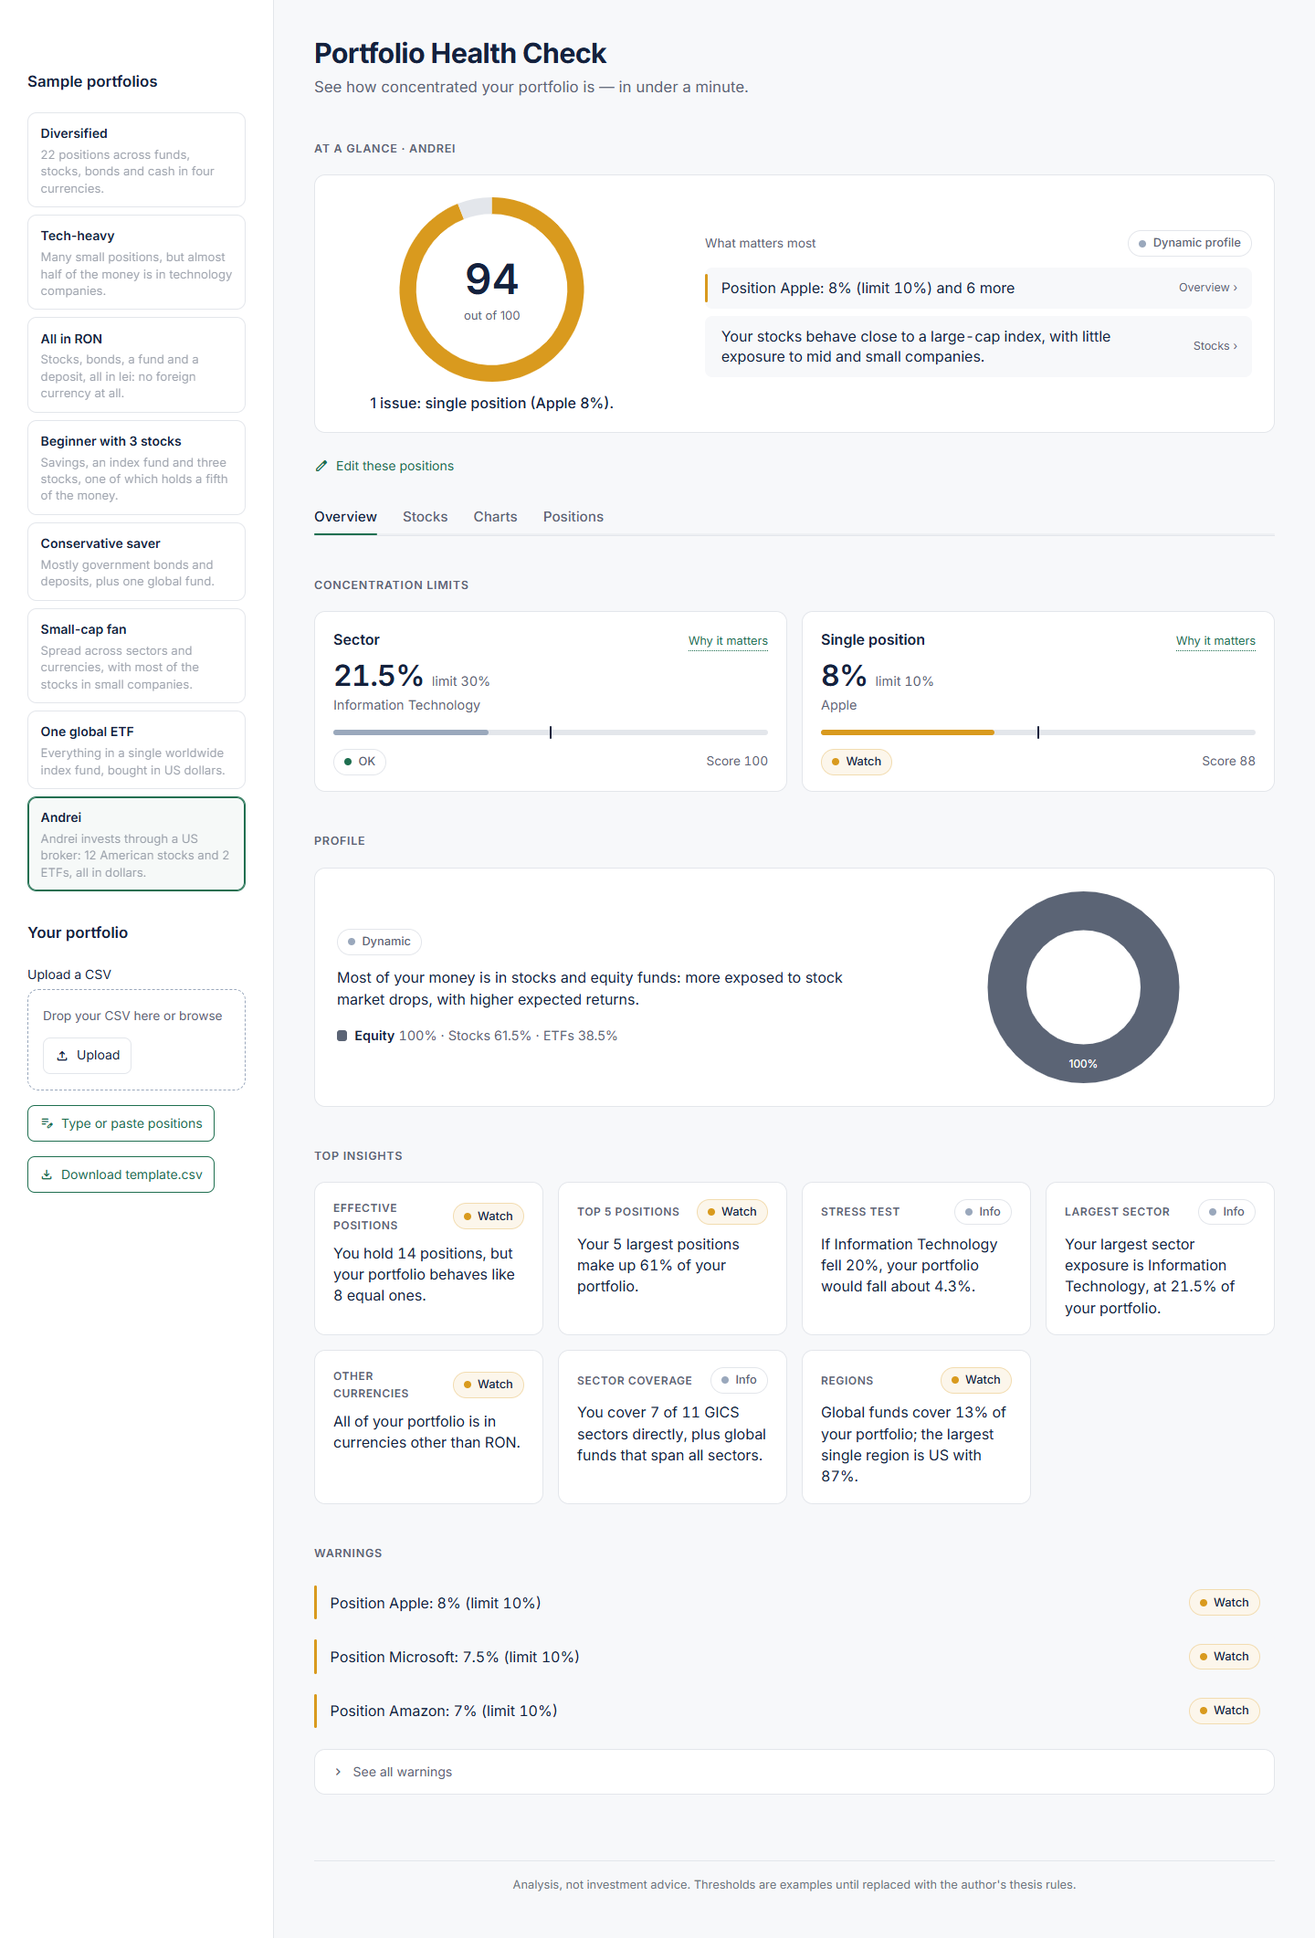
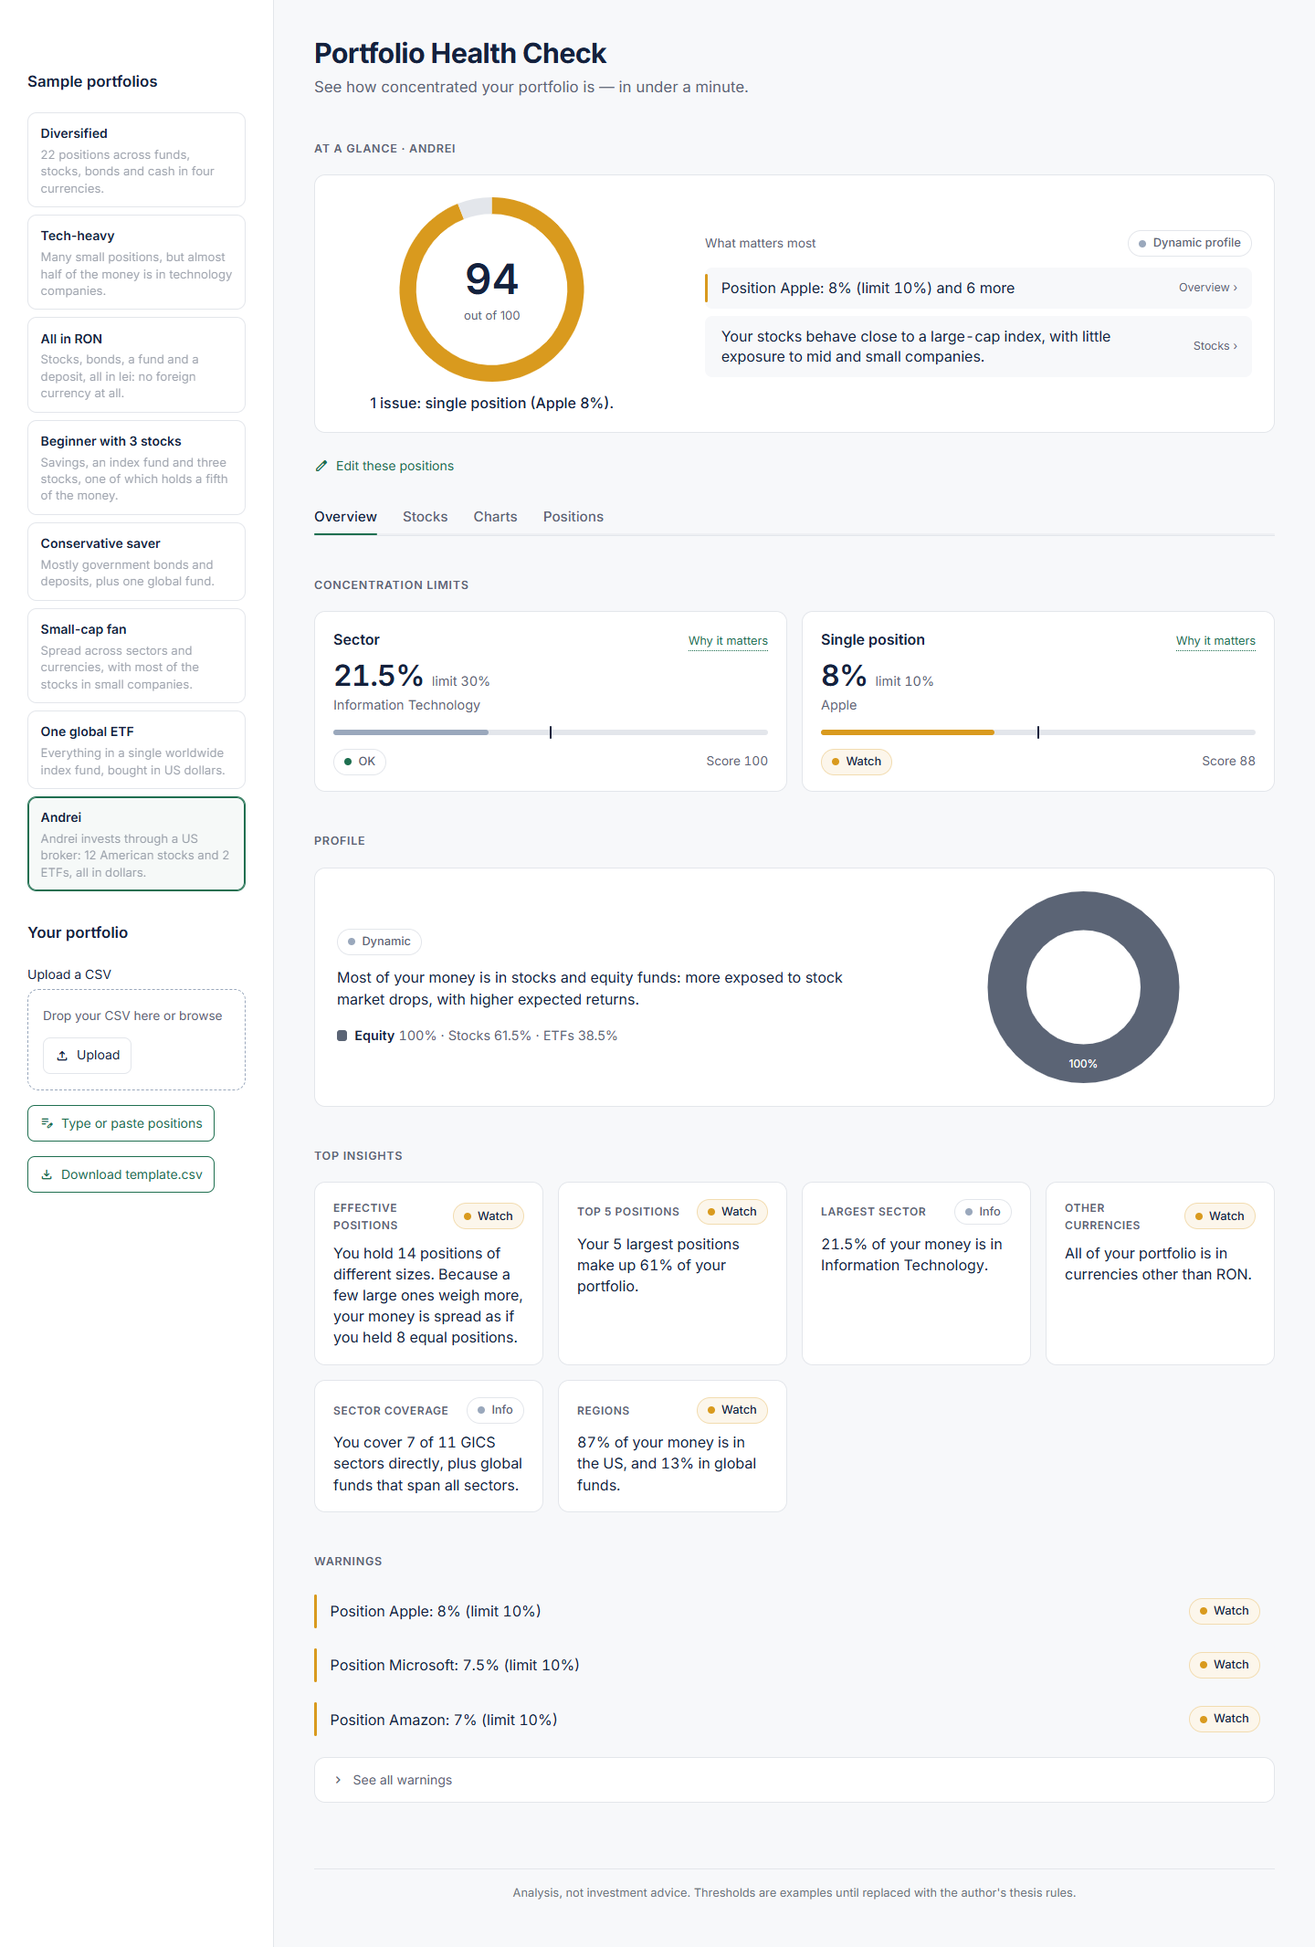
Plain exposure insights, label notes and bar drill-down (S1-18, S1-19, S1-21, S1-23)
- "Behaves like N equal positions" now says why, in plain words.
- The stress test is replaced by the largest sector and region in %.
- A note under the Sector chart and the table headers explain
  "Diversified" and "n/a".
- Hovering a bar lists the positions in it; clicking lists them all.

diff --git a/app.py b/app.py
@@ -190,6 +190,10 @@ def inject_css() -> None:
 .phc-detail { display: grid; grid-template-columns: repeat(auto-fit, minmax(130px, 1fr)); gap: .75rem; }
 .phc-detail dt { color: var(--text-2); font-size: .8rem; }
 .phc-detail dd { margin: .1rem 0 0; font-weight: 500; }
+.phc-members { display: flex; flex-direction: column; }
+.phc-member { display: flex; justify-content: space-between; gap: 1rem; padding: .4rem 0;
+  border-bottom: 1px solid var(--border); }
+.phc-member:last-child { border-bottom: none; }
 
 /* Streamlit widgets. Selectors use data-testid, ARIA roles and the st-key-* classes
    Streamlit adds to keyed widgets, not its generated class names. */
@@ -331,7 +335,9 @@ def show_table(table, formats: dict, **options):
     )
     config = {
         column: st.column_config.Column(
-            COLUMN_LABELS[column], alignment="right" if column in NUMBER_COLUMNS else None
+            COLUMN_LABELS[column],
+            alignment="right" if column in NUMBER_COLUMNS else None,
+            help=" ".join(scoring.LABEL_EXPLANATIONS.values()) if column == "sector" else None,
         )
         for column in table.columns
     }
@@ -439,7 +445,20 @@ def cap_chart(comparison) -> go.Figure:
     return fig
 
 
-def bar_chart(bars, limit: float | None) -> go.Figure:
+def members_hover(members: list[tuple[str, float]], shown: int = 8) -> str:
+    """The positions inside a bar, for its tooltip: the largest eight, then a count."""
+    lines = [f"{escape(name)}  {scoring.fmt_pct(weight)}" for name, weight in members[:shown]]
+    if len(members) > shown:
+        lines.append(f"and {len(members) - shown} more")
+    return "<br>".join(lines)
+
+
+def bar_chart(bars, limit: float | None, members: dict | None = None) -> go.Figure:
+    hover = "<b>%{y}</b>: %{text}<extra></extra>"
+    customdata = None
+    if members:
+        customdata = [members_hover(members.get(category, [])) for category in bars["category"]]
+        hover = "<b>%{y}</b>: %{text}<br><br>%{customdata}<extra></extra>"
     fig = go.Figure(
         go.Bar(
             x=bars["weight"],
@@ -449,7 +468,8 @@ def bar_chart(bars, limit: float | None) -> go.Figure:
             text=[scoring.fmt_pct(weight) for weight in bars["weight"]],
             textposition="outside",
             cliponaxis=False,
-            hovertemplate="%{y}: %{text}<extra></extra>",
+            customdata=customdata,
+            hovertemplate=hover,
         )
     )
     top = max(bars["weight"].max(), limit or 0)
@@ -810,7 +830,19 @@ def stocks_tab(analysis: scoring.Analysis, portfolio_id: str) -> None:
         )
 
 
-def charts_tab(analysis: scoring.Analysis) -> None:
+def members_card(category: str, share: float, members: list[tuple[str, float]]) -> str:
+    rows = "".join(
+        f'<div class="phc-member"><span>{escape(name)}</span>'
+        f'<span class="phc-num">{scoring.fmt_pct(weight)}</span></div>'
+        for name, weight in members
+    )
+    return (
+        f'<div class="phc-card"><div class="phc-detail-name">{escape(category)} · '
+        f'{scoring.fmt_pct(share)} of your portfolio</div><div class="phc-members">{rows}</div></div>'
+    )
+
+
+def charts_tab(analysis: scoring.Analysis, portfolio_id: str) -> None:
     dimensions = scoring.chart_dimensions(analysis)
     dimension = st.pills(
         "Dimension",
@@ -822,8 +854,27 @@ def charts_tab(analysis: scoring.Analysis) -> None:
         label_visibility="collapsed",
     )
     bars, limit = scoring.chart_data(analysis, dimension)
-    show_chart(bar_chart(bars, limit))
-    if dimension in ("sector", "asset"):
+    # Each bar of Sector, Currency and Region holds several positions: show them.
+    members = scoring.bar_members(analysis, dimension) if dimension != "asset" else None
+    event = st.plotly_chart(
+        bar_chart(bars, limit, members),
+        theme=None,
+        config=PLOTLY_CONFIG,
+        on_select="rerun" if members else "ignore",
+        selection_mode="points",
+        key=f"chart_{portfolio_id}_{dimension}",  # a new portfolio starts with no bar picked
+    )
+    points = event.selection.points if members else []
+    if points:
+        category = points[0]["y"]
+        share = float(bars.loc[bars["category"] == category, "weight"].iloc[0])
+        st.html(members_card(category, share, members[category]))
+    elif members:
+        st.html('<div class="phc-muted">Hover over a bar to see the positions in it, or click it to list them.</div>')
+    explanations = scoring.label_explanations(bars["category"]) if dimension == "sector" else []
+    if explanations:
+        st.html(note_card(" ".join(explanations) + " They don't count towards the sector limit, so they stay grey."))
+    elif dimension in ("sector", "asset"):
         st.html('<div class="phc-muted">Broad ETFs, bonds and cash are exempt from this limit and stay grey.</div>')
     for note in analysis.notes:
         if note.key == dimension:  # the region and currency notes sit under their charts
@@ -890,7 +941,7 @@ def main() -> None:
     with stocks:
         stocks_tab(analysis, portfolio_id)
     with charts:
-        charts_tab(analysis)
+        charts_tab(analysis, portfolio_id)
     with positions:
         positions_tab(analysis)
     footer()

diff --git a/scoring.py b/scoring.py
@@ -140,6 +140,15 @@ STATUS_RANK = {RED: 0, YELLOW: 1, GREEN: 2}
 # Word that starts a warning, e.g. "Position Apple: 8% (limit 10%)".
 WARNING_PREFIX = {"sector": "Sector", "asset": "Position"}
 
+# How a region reads inside a sentence ("87% of your money is in the US").
+REGION_PHRASES = {"US": "the US", "Emerging": "emerging markets"}
+
+# What the two non-sector labels mean, shown under the Sector chart and in tables.
+LABEL_EXPLANATIONS = {
+    "Diversified": "Diversified: broad funds (ETFs) spread over many sectors.",
+    "n/a": "n/a: bonds and cash, which have no sector.",
+}
+
 # Dimensions offered in the Charts tab.
 CHART_DIMENSIONS = {
     "sector": "Sector",
@@ -729,9 +738,15 @@ def insights_for(
     elif equal >= count:
         text = f"You hold {count} positions of about equal size."
     elif equal == 1:
-        text = f"You hold {count} positions, but your portfolio behaves like a single one."
+        text = (
+            f"You hold {count} positions, but one is much bigger than the rest: "
+            "your money is spread as if you held a single position."
+        )
     else:
-        text = f"You hold {count} positions, but your portfolio behaves like {equal} equal ones."
+        text = (
+            f"You hold {count} positions of different sizes. Because a few large ones weigh "
+            f"more, your money is spread as if you held {equal} equal positions."
+        )
     insights.append(Insight("effective_positions", "Effective positions", text, label("asset")))
 
     if count <= 5:
@@ -742,16 +757,9 @@ def insights_for(
 
     sectors = limit_weights(df, "sector")
     if sectors.empty:
-        stress = "No single sector to stress-test: your holdings are broad funds, bonds or cash."
         largest = "You have no single-sector exposure outside broad funds, bonds and cash."
     else:
-        sector, share = sectors.index[0], float(sectors.iloc[0])
-        stress = (
-            f"If {sector} fell {fmt_pct(rules.STRESS_DROP)}, your portfolio would fall "
-            f"about {fmt_pct(share * rules.STRESS_DROP)}."
-        )
-        largest = f"Your largest sector exposure is {sector}, at {fmt_pct(share)} of your portfolio."
-    insights.append(Insight("stress_test", "Stress test", stress, label("sector")))
+        largest = f"{fmt_pct(float(sectors.iloc[0]))} of your money is in {sectors.index[0]}."
     insights.append(Insight("largest_sector", "Largest sector", largest, label("sector")))
 
     other = 1 - float(weights(df, "currency").get(HOME_CURRENCY, 0.0))
@@ -780,8 +788,11 @@ def insights_for(
     if has_region:
         global_share = float(weights(df, "region").get(GLOBAL_REGION, 0.0))
         region, share = largest_region(df)
-        text = f"Global funds cover {fmt_pct(global_share)} of your portfolio"
-        text += f"; the largest single region is {region} with {fmt_pct(share)}." if region else "."
+        if region:
+            text = f"{fmt_pct(share)} of your money is in {REGION_PHRASES.get(region, region)}"
+            text += f", and {fmt_pct(global_share)} in global funds." if global_share > EPS else "."
+        else:
+            text = "All of your money is in global funds."
         insights.append(Insight("regions", "Regions", text, label("region")))
 
     return insights
@@ -884,6 +895,21 @@ def asset_class_slices(profile: Profile) -> pd.DataFrame:
         }
     )
     return slices[slices["share"] > EPS].reset_index(drop=True)
+
+
+def bar_members(analysis: Analysis, dimension: str) -> dict[str, list[tuple[str, float]]]:
+    """For each bar of a chart (a sector, currency or region), the positions in it
+    with their weights, largest first."""
+    members = {}
+    for _, row in analysis.positions.iterrows():  # positions are already largest first
+        members.setdefault(row[dimension], []).append((row["asset"], float(row["weight"])))
+    return members
+
+
+def label_explanations(categories) -> list[str]:
+    """Explanations for the "Diversified" and "n/a" labels that appear in `categories`."""
+    present = set(categories)
+    return [text for label, text in LABEL_EXPLANATIONS.items() if label in present]
 
 
 def cap_comparison(analysis: Analysis) -> pd.DataFrame:

diff --git a/tests/test_scoring.py b/tests/test_scoring.py
@@ -111,7 +111,7 @@ def test_one_global_etf_region_is_global():
     analysis = sample("one_global_etf.csv")
     assert scoring.weights(analysis.positions, "region").to_dict() == {"Global": 1.0}
     regions = next(i for i in analysis.insights if i.key == "regions")
-    assert regions.text == "Global funds cover 100% of your portfolio."
+    assert regions.text == "All of your money is in global funds."
 
 
 # ---------------------------------------------------------------------------
@@ -389,7 +389,10 @@ def hand_insights():
 
 def test_effective_positions(hand_insights):
     insight = hand_insights["effective_positions"]
-    assert insight.text == "You hold 6 positions, but your portfolio behaves like 4 equal ones."
+    assert insight.text == (
+        "You hold 6 positions of different sizes. Because a few large ones weigh more, "
+        "your money is spread as if you held 4 equal positions."
+    )
     assert insight.label == "Watch"  # A is 40%: single-position limit is red
 
 
@@ -399,7 +402,7 @@ def test_top5(hand_insights):
 
 def test_largest_sector(hand_insights):
     insight = hand_insights["largest_sector"]
-    assert insight.text == "Your largest sector exposure is Information Technology, at 40% of your portfolio."
+    assert insight.text == "40% of your money is in Information Technology."
     assert insight.label == "Watch"
 
 
@@ -409,10 +412,10 @@ def test_other_currencies(hand_insights):
     assert insight.label == "Info"  # USD 45% is below 56%
 
 
-def test_stress_test(hand_insights):
-    assert hand_insights["stress_test"].text == (
-        "If Information Technology fell 20%, your portfolio would fall about 8%."
-    )
+def test_no_stress_test_but_plain_exposure():
+    insights = {i.key: i for i in sample("tech_heavy.csv").insights}
+    assert "stress_test" not in insights
+    assert insights["largest_sector"].text == "45% of your money is in Information Technology."
 
 
 def test_sector_coverage_with_global_funds(hand_insights):
@@ -443,7 +446,7 @@ def test_sector_coverage_never_zero_with_global_funds():
 def test_regions(hand_insights):
     insight = hand_insights["regions"]
     assert insight.text == (
-        "Global funds cover 15% of your portfolio; the largest single region is US with 45%."
+        "45% of your money is in the US, and 15% in global funds."
     )
     assert insight.label == "Info"
 
@@ -455,7 +458,40 @@ def test_insights_without_sector_exposure():
     assert insights["top5"].text == "With 1 position, your top 5 are the whole portfolio."
     assert insights["other_currencies"].text == "All of your portfolio is in RON."
     assert insights["sector_coverage"].text == "You hold global funds that span all sectors."
-    assert "No single sector" in insights["stress_test"].text
+    assert insights["largest_sector"].text.startswith("You have no single-sector exposure")
+
+
+def test_one_dominant_position():
+    df = make(
+        [
+            ("Big", 97, "Energy", "stock", "large", "USD", "US"),
+            ("Small", 3, "Utilities", "stock", "large", "USD", "US"),
+        ]
+    )
+    insight = next(i for i in scoring.analyze(df).insights if i.key == "effective_positions")
+    assert insight.text == (
+        "You hold 2 positions, but one is much bigger than the rest: "
+        "your money is spread as if you held a single position."
+    )
+
+
+def test_bar_members():
+    analysis = scoring.analyze(make(HAND))
+    sectors = scoring.bar_members(analysis, "sector")
+    assert sectors["Information Technology"] == [("A", pytest.approx(0.4))]
+    assert [name for name, _ in sectors["n/a"]] == ["D", "E"]
+    usd = scoring.bar_members(analysis, "currency")["USD"]
+    assert [name for name, _ in usd] == ["A", "F"]  # largest first
+    assert sum(w for _, w in usd) == pytest.approx(0.45)
+
+
+def test_label_explanations():
+    texts = scoring.label_explanations(["Information Technology", "Diversified", "n/a"])
+    assert texts == [
+        "Diversified: broad funds (ETFs) spread over many sectors.",
+        "n/a: bonds and cash, which have no sector.",
+    ]
+    assert scoring.label_explanations(["Energy"]) == []
 
 
 def test_bonds_only_covers_zero_sectors():

diff --git a/rules.py b/rules.py
@@ -105,5 +105,3 @@ SINGLE_REGION_NOTE = 0.80  # EXAMPLE
 # portfolio. Same value as the old currency limit's yellow threshold.
 FOREIGN_CURRENCY_NOTE = 0.56  # EXAMPLE
 
-# Stress test: drop applied to the largest sector.
-STRESS_DROP = 0.20  # EXAMPLE

diff --git a/docs/product-features.md b/docs/product-features.md
@@ -25,9 +25,9 @@ What a user can see and do in Portfolio Health Check.
 | | See up to three findings that matter most, each pointing to the tab with the details | Done | 27 Oct |
 | | See your investor profile: Conservative, Balanced or Dynamic | Done | 27 Oct |
 | **Insights** | See how your money splits between stocks, ETFs, bonds and cash | Done | 27 Oct |
-| | See how many equal positions your portfolio behaves like, and the share of the five largest | Done | 27 Oct |
-| | See what a 20% fall in your largest sector would do to your portfolio | Done | 27 Oct |
-| | See your largest sector, your share outside RON and your largest region | Done | 27 Oct |
+| | See how many equal positions your portfolio behaves like (explained in plain words), and the share of the five largest | Done | 27 Oct |
+| | See your largest sector and your largest region as simple percentages (they replace the stress test) | Done | 29 Oct |
+| | See your share outside RON | Done | 27 Oct |
 | | See how many of the 11 sectors you cover, with global funds counted | Done | 28 Oct |
 | | Each insight is marked Info or Watch and never changes the score | Done | 27 Oct |
 | **Exposure notes** | Compare your stocks' company sizes with the US market | Done | 27 Oct |
@@ -36,6 +36,8 @@ What a user can see and do in Portfolio Health Check.
 | | Get a note when one foreign currency holds most of your portfolio; the leu never counts | Done | 29 Oct |
 | | Click a stock to see its sector, size, region and weight | Done | 27 Oct |
 | **Charts** | See bars by sector, currency, position or region, largest first, with the limit as a dotted line | Done | 27 Oct |
+| | Hover over a bar to see the positions inside it, or click it to list them all | Done | 29 Oct |
+| | Read what "Diversified" and "n/a" mean, under the Sector chart and in the tables | Done | 29 Oct |
 | | See every position in a table, with values in lei and weights in % | Done | 27 Oct |
 | **Design** | Calm, report-like look: colour only where there is a problem | Done | 27 Oct |
 | | Works on a phone-sized screen | Done | 27 Oct |

diff --git a/README.md b/README.md
@@ -68,7 +68,7 @@ All thresholds live in [rules.py](rules.py) and are examples (see Known limitati
 - **Market cap:** the stocks' small / mid / large split is compared with the US market. A note appears when small caps are well above the market share or when almost everything is large cap. As with asset classes, the right mix depends on the investor, so it does not affect the score.
 - **Currency:** a note, not a limit ([decision D1](docs/decisions.md)). It appears when one foreign currency holds most of the portfolio. Over long periods currency moves matter less for stocks than company and sector risk, and the leu never counts, since it is the investor's own currency. The currency is the one the asset is listed in, not the one the company earns in.
 - **Region:** the region of the company or fund, not of the currency, so it measures something different from the currency note. It is shown as a note, not scored: the note appears when one region (Global funds excluded) holds most of the portfolio.
-- **Insights:** effective number of positions, top 5 share, largest sector, a stress test on that sector, share outside RON, GICS sector coverage and regions. Each insight is labelled Info or Watch and has no effect on the score.
+- **Insights:** effective number of positions, top 5 share, largest sector and largest region in %, share outside RON, and GICS sector coverage. Each insight is labelled Info or Watch and has no effect on the score.
 
 ## CSV format
 

diff --git a/CHANGELOG.md b/CHANGELOG.md
@@ -5,6 +5,10 @@
 ### 29 Oct 2026
 - Currency is no longer part of the score. When one foreign currency holds most of your portfolio, a note explains what that means in lei. Money in lei never counts as a currency risk.
 - The score now comes from two limits: sector and single position.
+- In Charts, hover over a bar to see the positions inside it, or click it to list them all.
+- A note under the Sector chart explains "Diversified" (broad funds) and "n/a" (bonds and cash). The tables explain it too.
+- The "what if a sector fell 20%" insight is gone. Your largest sector and region now show as simple percentages.
+- "Behaves like N equal positions" now says why, in plain words.
 
 ### 28 Oct 2026
 - You can type or paste your positions straight into the app.
